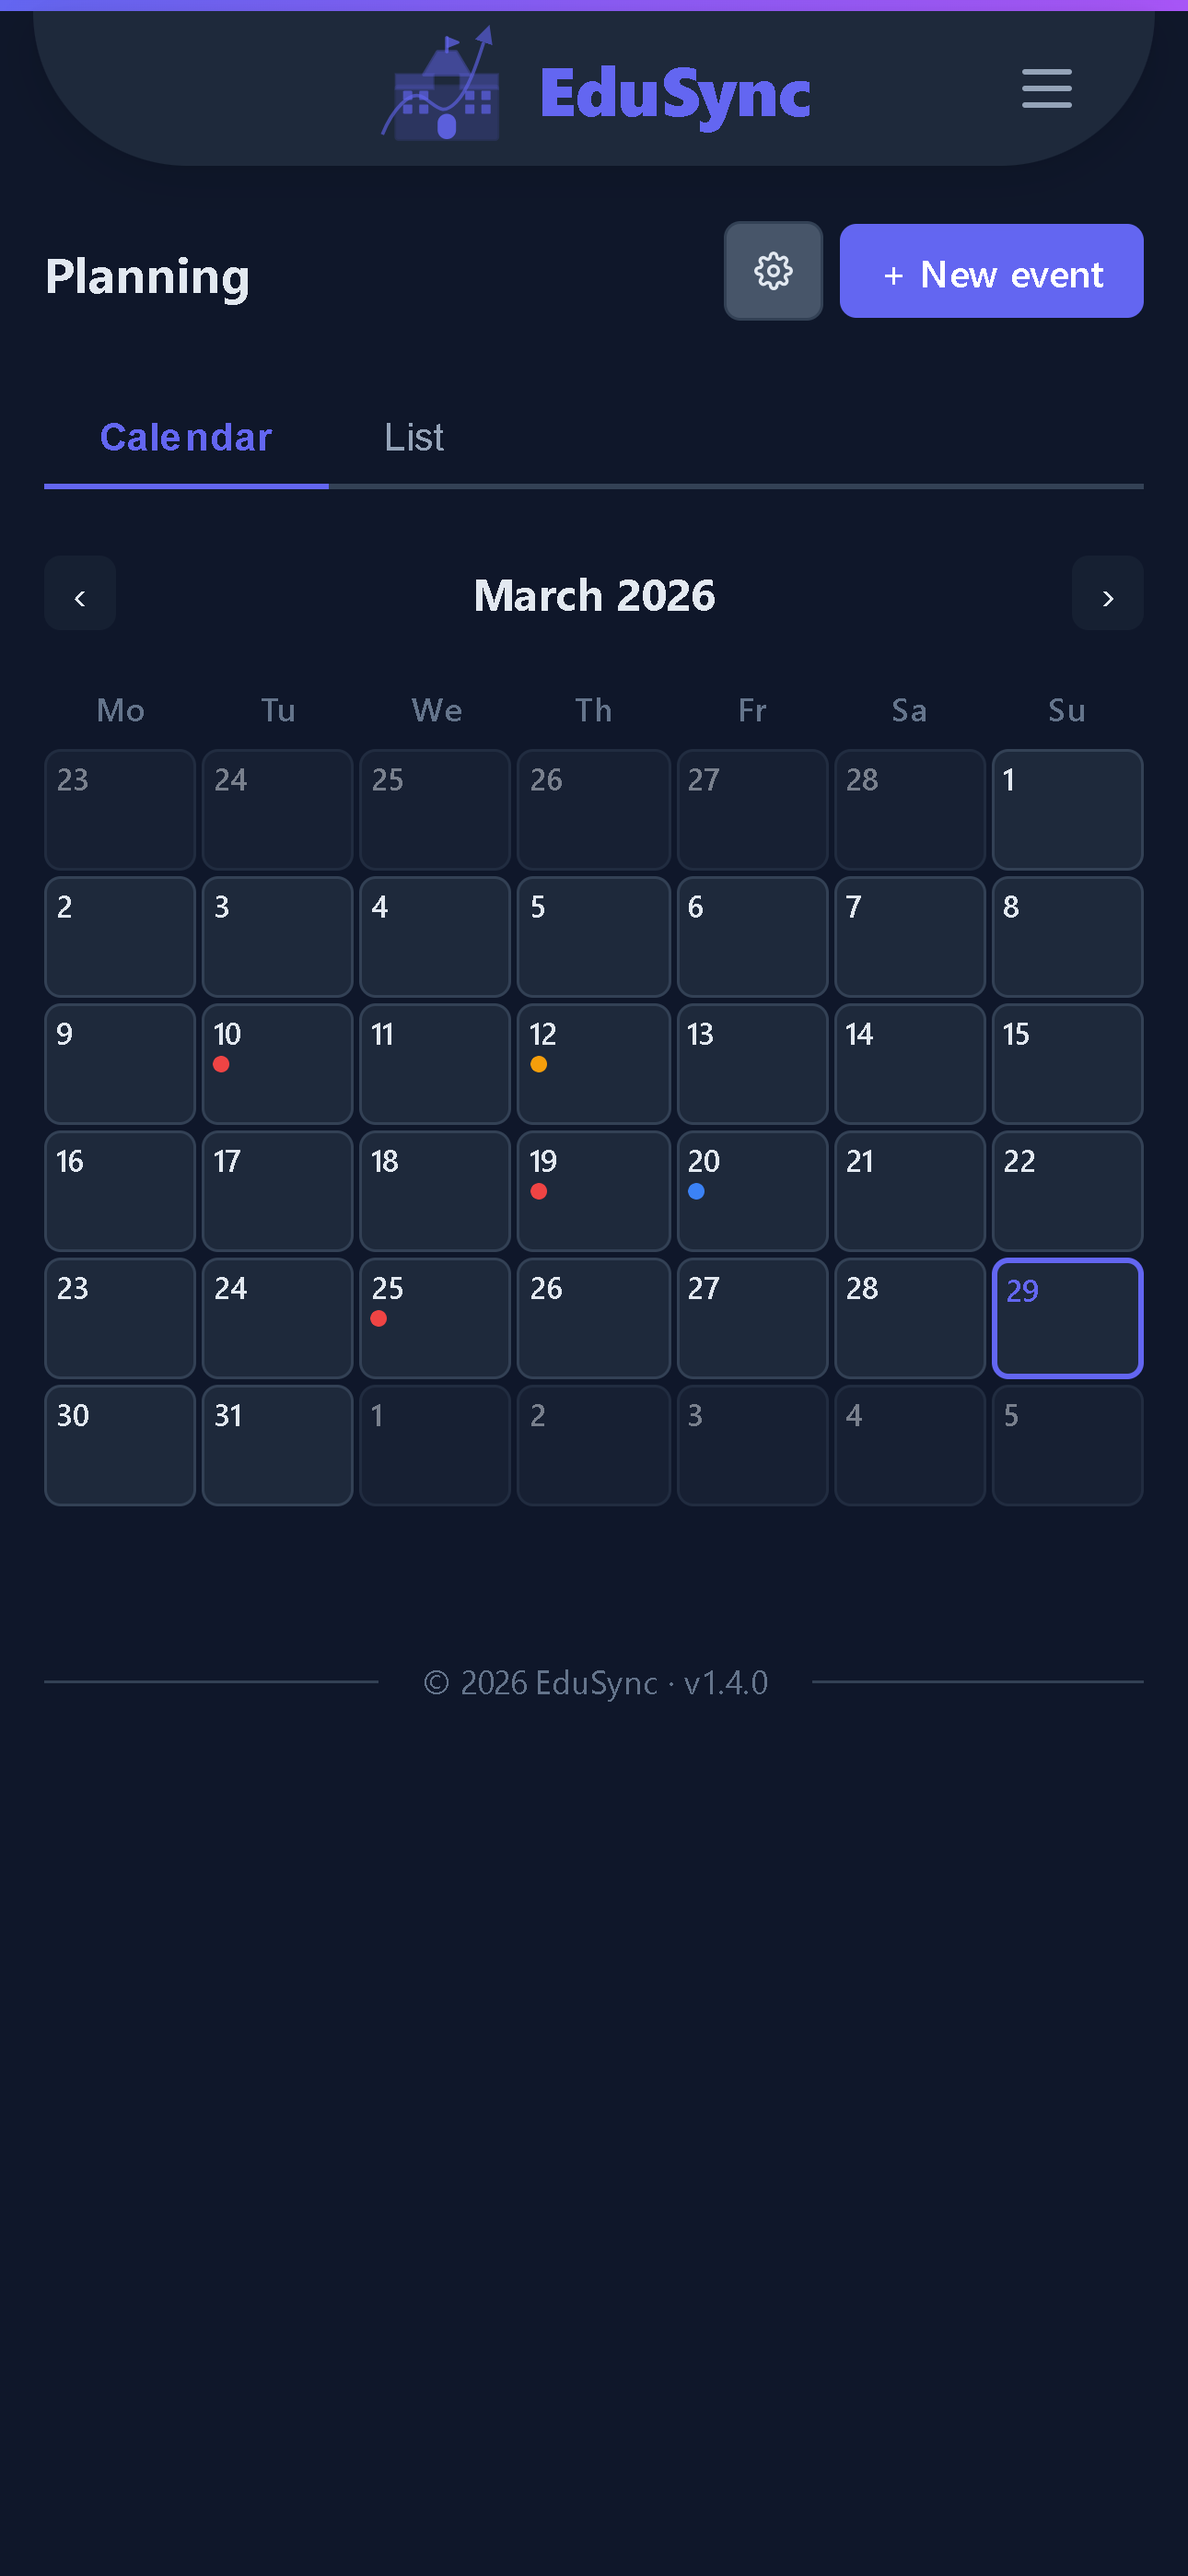
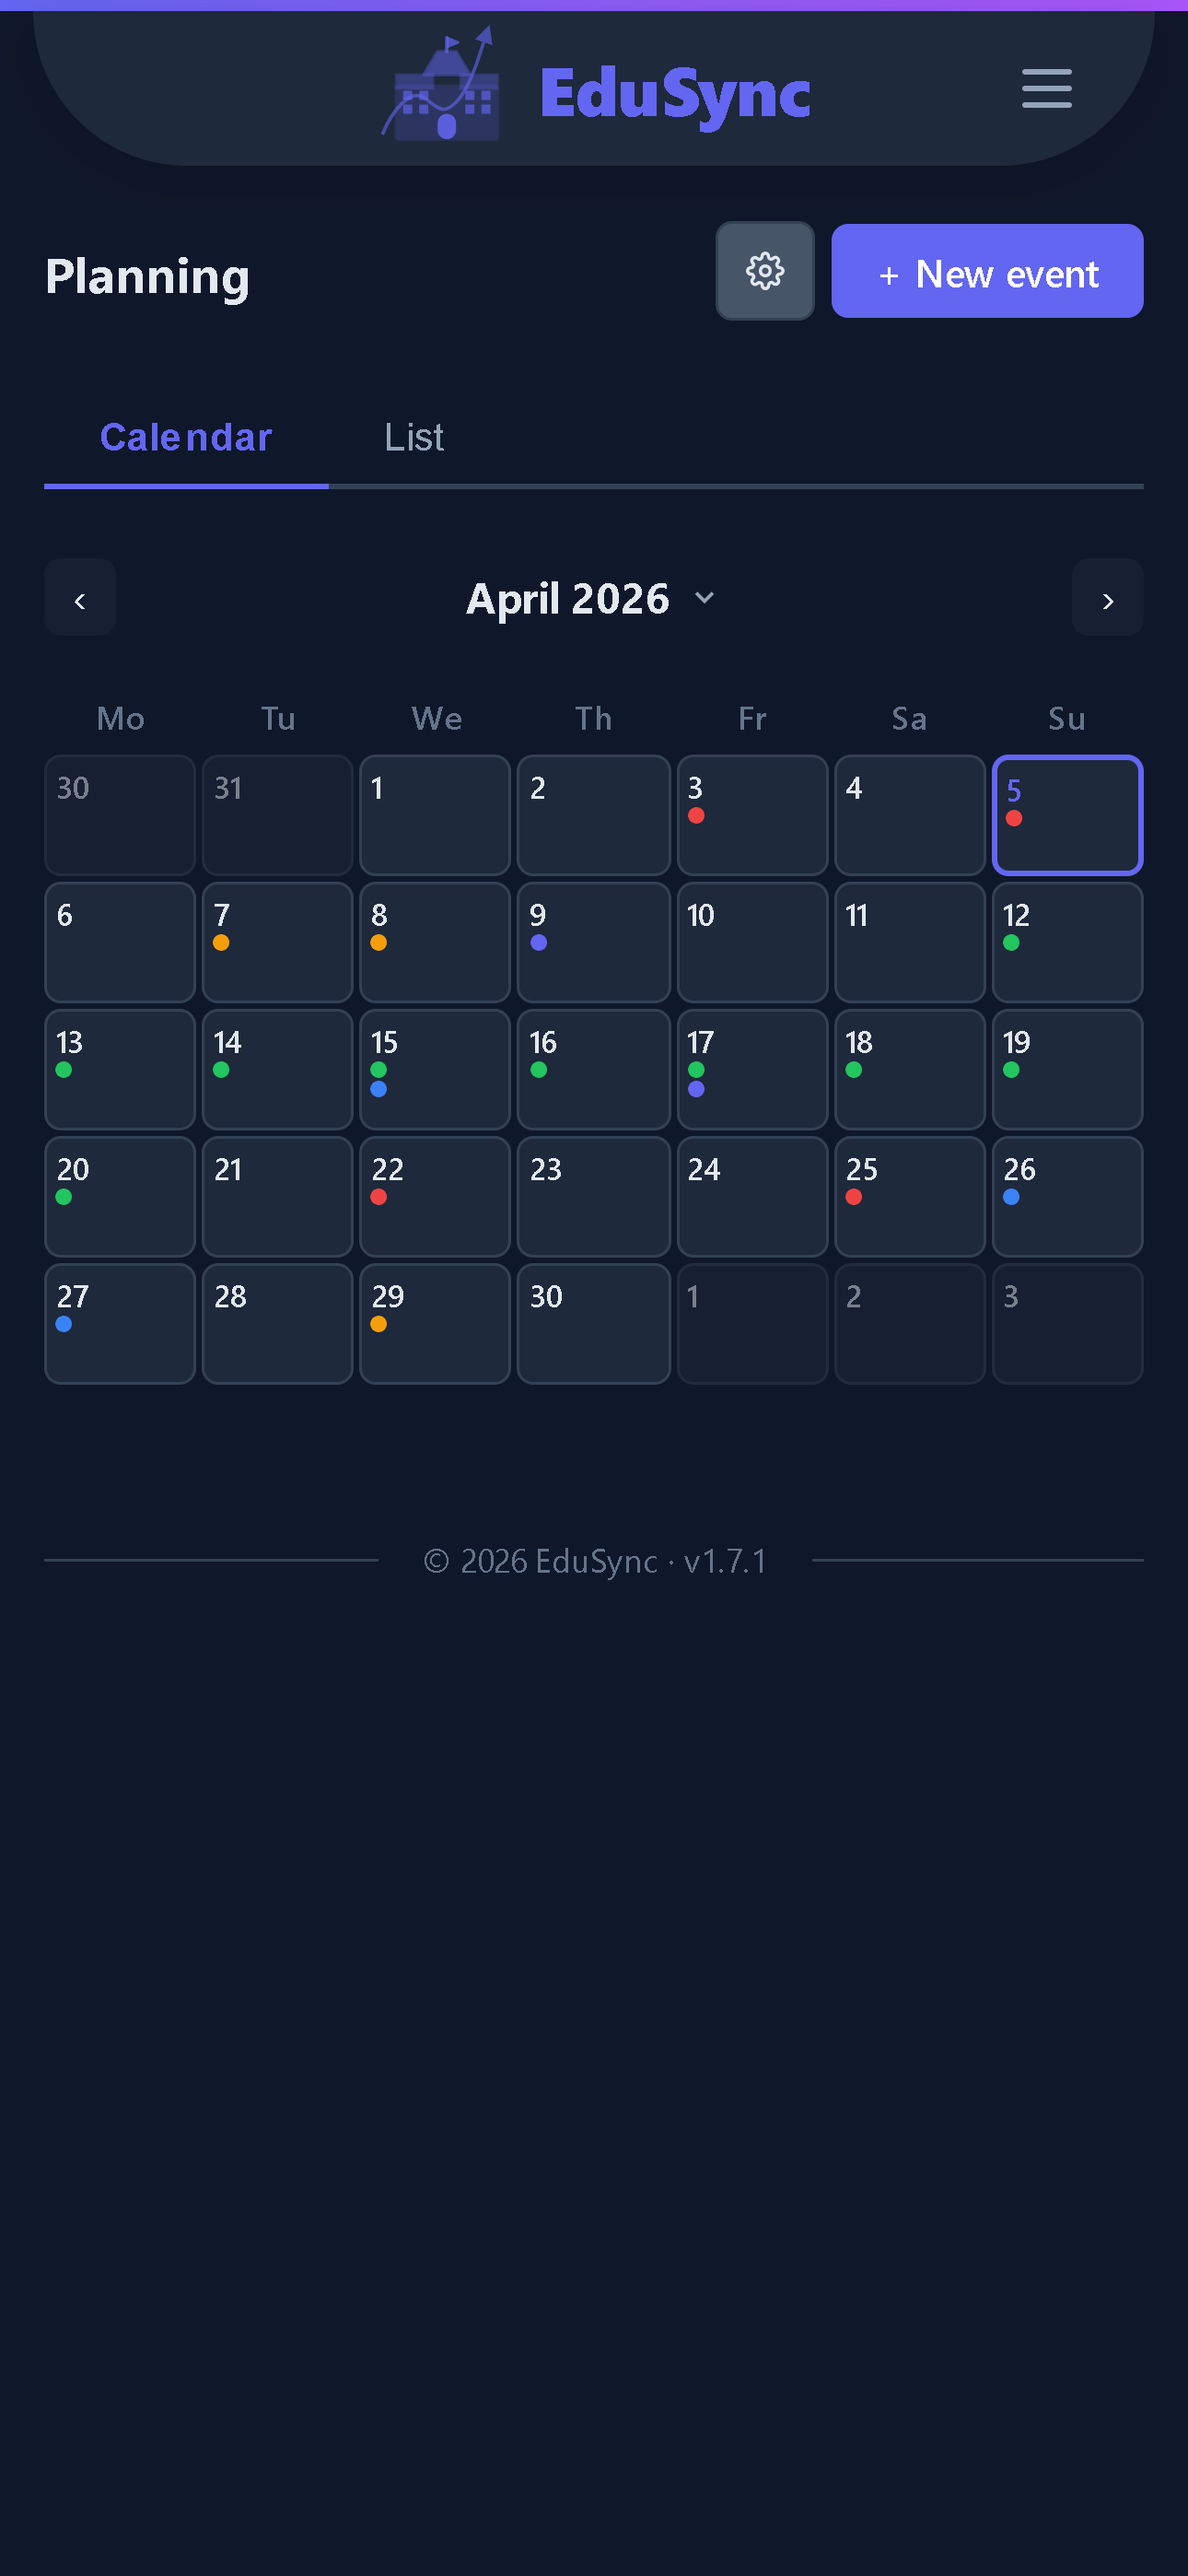
feat(planning): add month/year picker dropdown to calendar
Replace the plain month label in the calendar header with a custom
dropdown: click to open a panel showing the year with prev/next arrows
and a 3x4 month grid. Clicking a month navigates directly to that
month. Current month is highlighted. Dropdown closes on outside click.

diff --git a/src/Views/planning/index.php b/src/Views/planning/index.php
@@ -37,6 +37,21 @@ function hexBadgeBg(string $hex, float $alpha = 0.15): string {
 .cal-nav-btn{background:var(--bg-subtle);border:none;border-radius:6px;padding:.35rem .65rem;cursor:pointer;font-size:1rem;color:var(--text);text-decoration:none;line-height:1}
 .cal-nav-btn:hover{background:var(--border)}
 .cal-month{font-size:1rem;font-weight:700;color:var(--text)}
+.cal-picker-wrap{position:relative}
+.cal-picker-btn{font-size:.95rem;font-weight:700;color:var(--text);background:transparent;border:none;border-radius:6px;padding:.3rem .75rem;cursor:pointer;font-family:inherit;display:flex;align-items:center;gap:.4rem}
+.cal-picker-btn:hover{background:var(--border)}
+.cal-picker-btn svg{flex-shrink:0;color:var(--text-muted);transition:transform .18s}
+.cal-picker-btn.open svg{transform:rotate(180deg)}
+.cal-picker-drop{display:none;position:absolute;top:calc(100% + 6px);left:50%;transform:translateX(-50%);background:var(--surface);border:1px solid var(--border);border-radius:10px;box-shadow:0 8px 24px rgba(0,0,0,.13);z-index:200;padding:.75rem;min-width:220px}
+.cal-picker-drop.open{display:block}
+.cal-picker-year{display:flex;align-items:center;justify-content:space-between;margin-bottom:.65rem}
+.cal-picker-year span{font-size:.9rem;font-weight:700;color:var(--text)}
+.cal-picker-year button{background:none;border:none;cursor:pointer;color:var(--text-muted);border-radius:6px;width:28px;height:28px;display:flex;align-items:center;justify-content:center;font-size:1rem}
+.cal-picker-year button:hover{background:var(--bg-subtle);color:var(--text)}
+.cal-picker-months{display:grid;grid-template-columns:repeat(3,1fr);gap:.3rem}
+.cal-picker-month{padding:.4rem 0;text-align:center;font-size:.8rem;font-weight:500;border-radius:6px;cursor:pointer;color:var(--text);background:none;border:none;font-family:inherit}
+.cal-picker-month:hover{background:var(--purple-tint);color:#6366f1}
+.cal-picker-month.active{background:#6366f1;color:#fff;font-weight:700}
 .cal-grid{display:grid;grid-template-columns:repeat(7,1fr);gap:3px}
 .cal-dow{text-align:center;font-size:.72rem;font-weight:600;color:var(--text-subtle);padding:.3rem 0}
 .cal-cell{background:var(--surface);border:1px solid var(--border);border-radius:6px;min-height:80px;padding:.35rem .4rem;cursor:pointer;transition:background .1s;vertical-align:top}
@@ -90,7 +105,20 @@ function hexBadgeBg(string $hex, float $alpha = 0.15): string {
 <div class="tab-panel" id="panel-calendar">
     <div class="cal-nav">
         <a href="/planning?month=<?= htmlspecialchars($prevMonth, ENT_QUOTES) ?>" class="cal-nav-btn">&#8249;</a>
-        <span class="cal-month"><?= $monthNames[$monthNum - 1] ?> <?= $yearNum ?></span>
+        <div class="cal-picker-wrap">
+            <button class="cal-picker-btn" id="cal-picker-btn" type="button">
+                <?= $monthNames[$monthNum - 1] ?> <?= $yearNum ?>
+                <svg width="12" height="12" viewBox="0 0 24 24" fill="none" stroke="currentColor" stroke-width="2.5"><path d="M6 9l6 6 6-6"/></svg>
+            </button>
+            <div class="cal-picker-drop" id="cal-picker-drop">
+                <div class="cal-picker-year">
+                    <button type="button" id="cal-year-prev">&#8249;</button>
+                    <span id="cal-year-label"><?= $yearNum ?></span>
+                    <button type="button" id="cal-year-next">&#8250;</button>
+                </div>
+                <div class="cal-picker-months" id="cal-picker-months"></div>
+            </div>
+        </div>
         <a href="/planning?month=<?= htmlspecialchars($nextMonth, ENT_QUOTES) ?>" class="cal-nav-btn">&#8250;</a>
     </div>
     <div class="cal-grid">
@@ -273,5 +301,52 @@ function hexBadgeBg(string $hex, float $alpha = 0.15): string {
 
     closeBtn.addEventListener('click', function () { popup.style.display = 'none'; });
     popup.addEventListener('click', function (e) { if (e.target === popup) popup.style.display = 'none'; });
+
+    // ── Month/year picker dropdown ──
+    var MONTHS = ['January','February','March','April','May','June','July','August','September','October','November','December'];
+    var pickerBtn   = document.getElementById('cal-picker-btn');
+    var pickerDrop  = document.getElementById('cal-picker-drop');
+    var yearLabel   = document.getElementById('cal-year-label');
+    var monthsGrid  = document.getElementById('cal-picker-months');
+    var curYear     = <?= (int)$yearNum ?>;
+    var curMonth    = <?= (int)$monthNum ?>;
+    var pickerYear  = curYear;
+
+    function renderMonths() {
+        yearLabel.textContent = pickerYear;
+        monthsGrid.innerHTML = '';
+        MONTHS.forEach(function (name, i) {
+            var btn = document.createElement('button');
+            btn.type = 'button';
+            btn.className = 'cal-picker-month' + (pickerYear === curYear && i + 1 === curMonth ? ' active' : '');
+            btn.textContent = name.slice(0, 3);
+            btn.addEventListener('click', function () {
+                var m = i + 1;
+                location.href = '/planning?month=' + pickerYear + '-' + (m < 10 ? '0' + m : m);
+            });
+            monthsGrid.appendChild(btn);
+        });
+    }
+
+    pickerBtn.addEventListener('click', function (e) {
+        e.stopPropagation();
+        var isOpen = pickerDrop.classList.toggle('open');
+        pickerBtn.classList.toggle('open', isOpen);
+        if (isOpen) { pickerYear = curYear; renderMonths(); }
+    });
+
+    document.getElementById('cal-year-prev').addEventListener('click', function (e) {
+        e.stopPropagation(); pickerYear--; renderMonths();
+    });
+    document.getElementById('cal-year-next').addEventListener('click', function (e) {
+        e.stopPropagation(); pickerYear++; renderMonths();
+    });
+
+    document.addEventListener('click', function (e) {
+        if (!pickerDrop.contains(e.target) && e.target !== pickerBtn) {
+            pickerDrop.classList.remove('open');
+            pickerBtn.classList.remove('open');
+        }
+    });
 })();
 </script>

diff --git a/src/Views/layouts/app.php b/src/Views/layouts/app.php
@@ -195,7 +195,7 @@
         <?php endif; ?>
         <?= $content ?>
     </div>
-    <footer>© 2026 EduSync · v1.7.0</footer>
+    <footer>© 2026 EduSync · v1.7.1</footer>
     <!-- Confirm modal -->
     <div id="es-modal" style="display:none;position:fixed;inset:0;background:rgba(0,0,0,.45);z-index:9999;align-items:center;justify-content:center;">
         <div class="modal-box" style="border-radius:12px;padding:1.5rem 1.75rem;max-width:380px;width:90%;box-shadow:0 8px 32px rgba(0,0,0,.18);">

diff --git a/README.md b/README.md
@@ -1,6 +1,6 @@
 # EduSync
 
-Student management application built with PHP and MySQL — v1.7.0.
+Student management application built with PHP and MySQL — v1.7.1.
 
 ## Screenshots
 
